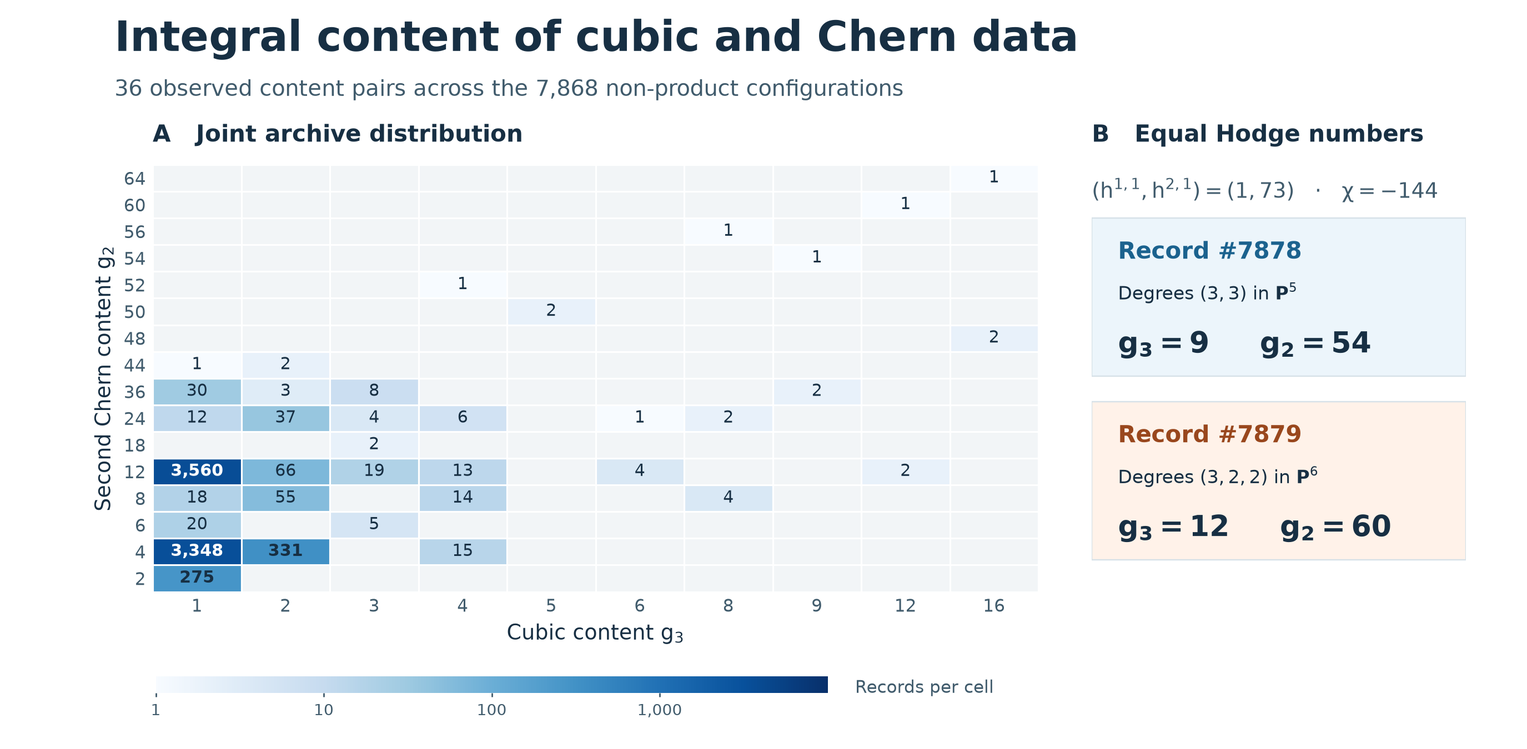
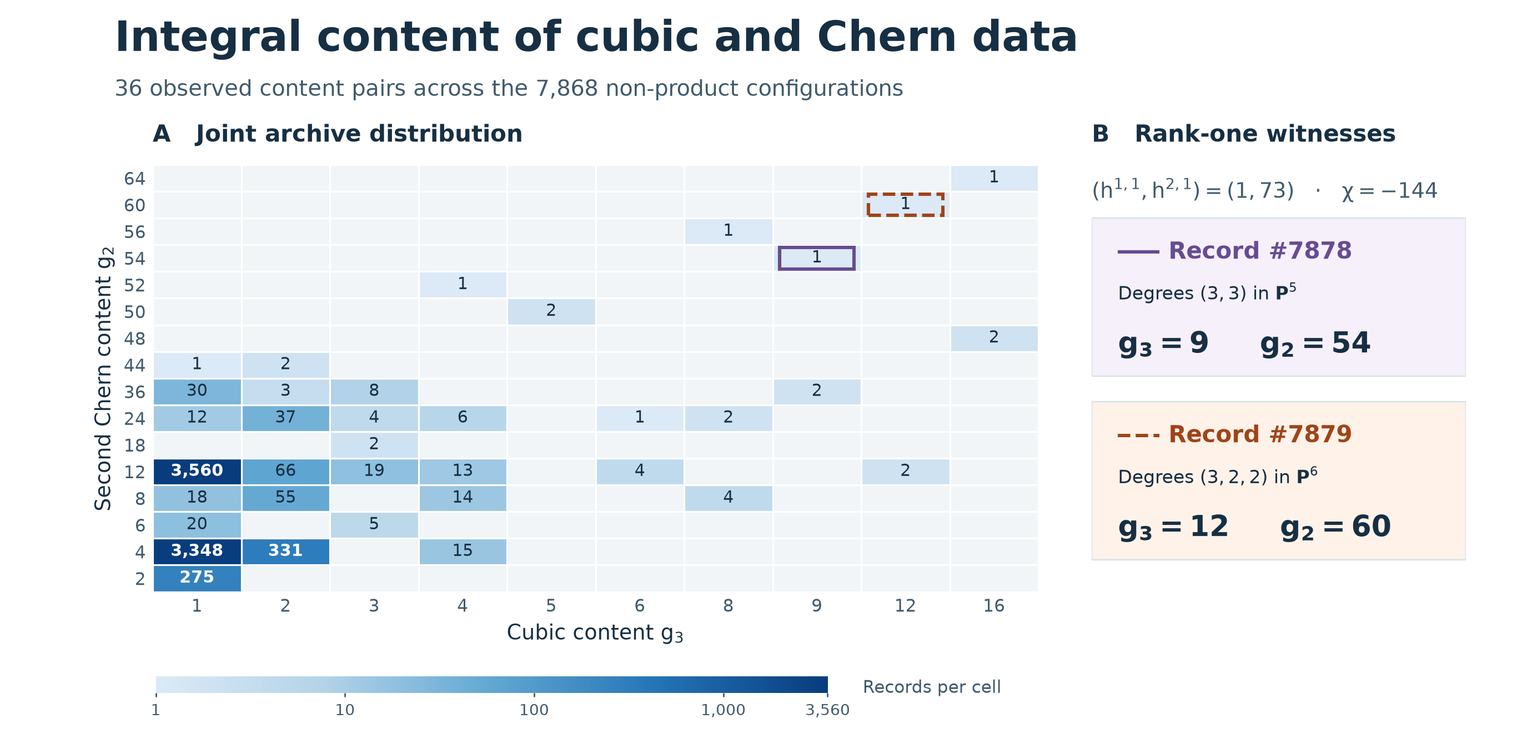
Clarify the index-divisibility visuals and render red hyperlinks

diff --git a/src/py_cipro/web/styles.css b/src/py_cipro/web/styles.css
@@ -4,6 +4,12 @@
   --ink: #172b29;
   --dim: #536561;
   --accent: #006658;
+  --link-on-light: #a22524;
+  --link-hover-on-light: #781513;
+  --link-on-dark: #ffa69d;
+  --link-hover-on-dark: #ffd2cc;
+  --link: var(--link-on-light);
+  --link-hover: var(--link-hover-on-light);
   --line: #d8e1dc;
   --mint: #b8f0d8;
   --night: #102823;
@@ -23,7 +29,8 @@ body { margin: 0; background: var(--paper); color: var(--ink); }
 button, input, select, textarea { font: inherit; }
 button { cursor: pointer; }
 button:disabled { cursor: default; opacity: .48; }
-a { color: var(--accent); text-underline-offset: 3px; }
+a[href] { color: var(--link); text-underline-offset: 3px; }
+a[href]:is(:hover, :focus-visible) { color: var(--link-hover); text-decoration-line: underline; }
 :focus-visible { outline: 3px solid #117a6c; outline-offset: 3px; }
 [hidden] { display: none !important; }
 .skip-link { position: fixed; z-index: 8; top: .65rem; left: .65rem; padding: .55rem .75rem; background: var(--white); clip-path: inset(50%); }
@@ -31,13 +38,12 @@ a { color: var(--accent); text-underline-offset: 3px; }
 .site-header { background: #f9fbf6; border-bottom: 1px solid var(--line); }
 .header-inner, main { width: min(100% - 5.5rem, 1440px); margin-inline: auto; }
 .header-inner { display: flex; align-items: center; justify-content: space-between; gap: 1rem; min-height: 68px; }
-.brand { color: var(--ink); text-decoration: none; display: inline-flex; align-items: center; gap: .75rem; font-size: 1.12rem; font-weight: 730; }
+.brand { text-decoration: none; display: inline-flex; align-items: center; gap: .75rem; font-size: 1.12rem; font-weight: 730; }
 .brand-icon { display: grid; place-items: center; width: 35px; height: 35px; border-radius: 10px; color: #e6fcf1; background: var(--night); font: italic 1.35rem Georgia, serif; }
-.brand-sub { color: var(--dim); font-weight: 520; }
+.brand-sub { font-weight: 520; }
 nav { display: flex; gap: clamp(.9rem, 3vw, 2.25rem); font-size: .87rem; }
-nav a { text-decoration: none; color: #435853; font-weight: 620; }
-nav a:hover { text-decoration: underline; }
-.kernel-indicator { text-decoration: none; white-space: nowrap; font-size: .79rem; color: var(--dim); font-weight: 640; }
+nav a { text-decoration: none; font-weight: 620; }
+.kernel-indicator { text-decoration: none; white-space: nowrap; font-size: .79rem; font-weight: 640; }
 .kernel-indicator > span:first-child { display: inline-block; width: 8px; height: 8px; border: 1px solid #798a80; background: #b4c2b8; border-radius: 50%; margin-right: .45rem; }
 .kernel-indicator > span:first-child.ready { background: #6fbd8d; border-color: #46795b; }
 main { padding-block: 1.5rem 3rem; }
@@ -52,6 +58,9 @@ h1 { margin: 0 0 1.1rem; font-family: "Instrument Serif", "Iowan Old Style", "Pa
 .button:hover:not(:disabled) { background: #005448; }
 .hero-button { background: var(--mint); color: var(--night); }
 .hero-button:hover:not(:disabled) { background: #d5f8e8; }
+:is(.hero, .research-cover) { --link: var(--link-on-dark); --link-hover: var(--link-hover-on-dark); }
+a.hero-button[href] { color: var(--link-on-light); }
+a.hero-button[href]:is(:hover, :focus-visible) { color: var(--link-hover-on-light); }
 .secondary-hero { color: #ecf8f1; background: transparent; border-color: #72998a; }
 .secondary-hero:hover:not(:disabled) { background: #294a3d; }
 .hero :focus-visible { outline-color: #b8f0d8; }
@@ -250,6 +259,8 @@ fieldset legend { font-size: .83rem; font-weight: 690; margin: 0 0 .28rem; paddi
     --ink: #e9f3ee;
     --dim: #aec1b9;
     --accent: #a3e6d0;
+    --link: var(--link-on-dark);
+    --link-hover: var(--link-hover-on-dark);
     --line: #344b42;
     --white: #1a2a24;
     --plot-grid: #344d43;
@@ -263,7 +274,6 @@ fieldset legend { font-size: .83rem; font-weight: 690; margin: 0 0 .28rem; paddi
   :focus-visible { outline-color: #a3e6d0; }
   .site-header { background: #14241e; }
   .brand-icon { color: #16342b; background: #a3e6d0; }
-  nav a { color: var(--dim); }
   .hero { border: 1px solid #416555; }
   .filters input, .filters select, .text-button, .square-button { background: #20362e; border-color: #4f6e61; color: var(--ink); }
   .text-button:hover:not(:disabled), .square-button:hover:not(:disabled) { background: #304b3f; }

diff --git a/src/py_cipro/web/index-divisibility.js b/src/py_cipro/web/index-divisibility.js
@@ -54,6 +54,53 @@ function recordCard(record, openRecords, ui) {
   return card;
 }
 
+function distributionBar(node, share) {
+  const track = node("span", "", "index-distribution-track");
+  const fill = node("span");
+  track.setAttribute("aria-hidden", "true");
+  fill.style.width = `${100 * share}%`;
+  track.append(fill);
+  return track;
+}
+
+function indexDistribution(node, count, summary, distribution) {
+  const figure = node("figure", "", "index-distribution");
+  const caption = node("figcaption");
+  caption.append(
+    node("h5", "Index gcd distribution"),
+    node("p", `Across all ${count.format(summary.records)} non-product records`),
+  );
+  const chart = node("div", "", "index-distribution-grid");
+  const overall = node("div");
+  const percentage = new Intl.NumberFormat(undefined, { style: "percent", maximumFractionDigits: 2 });
+  const unit = summary.records - summary.nonunit_records;
+  const share = summary.nonunit_records / summary.records;
+  const totals = node("dl", "", "index-distribution-totals");
+  totals.append(
+    measure(node, "GCD equals 1", `${count.format(unit)} (${percentage.format(1 - share)})`),
+    measure(node, "GCD above 1", `${count.format(summary.nonunit_records)} (${percentage.format(share)})`),
+  );
+  overall.append(totals, distributionBar(node, share));
+
+  const detail = node("div");
+  detail.append(node("h6", `Breakdown of the ${count.format(summary.nonunit_records)} records with gcd above 1`));
+  const rows = node("ul", "", "index-distribution-values");
+  for (const { value, count: frequency } of distribution) {
+    if (value === 1) continue;
+    const row = node("li");
+    row.append(
+      node("span", `GCD ${value}`),
+      distributionBar(node, frequency / summary.nonunit_records),
+      node("strong", count.format(frequency)),
+    );
+    rows.append(row);
+  }
+  detail.append(rows);
+  chart.append(overall, detail);
+  figure.append(caption, chart);
+  return figure;
+}
+
 export function mountIndexDivisibility(parent, openRecords, ui) {
   const { node, request, count } = ui;
   const section = node("section", "", "index-divisibility");
@@ -81,7 +128,7 @@ export function mountIndexDivisibility(parent, openRecords, ui) {
     status.classList.remove("error");
     status.textContent = "Loading index-divisibility audit…";
     try {
-      const { witness, summary } = await request(auditPath);
+      const { witness, summary, distribution } = await request(auditPath);
       const [first] = witness;
       const shared = node("dl", "", "index-divisibility-shared");
       shared.append(
@@ -92,9 +139,9 @@ export function mountIndexDivisibility(parent, openRecords, ui) {
       const comparison = node("div", "", "index-divisibility-comparison");
       comparison.append(...witness.map(record => recordCard(record, openRecords, ui)));
       const interpretation = node("p",
-        `Adding the index gcd raises the number of distinct signatures from ${count.format(summary.signatures_before)} to ${count.format(summary.signatures_after)} across ${count.format(summary.records)} non-product records. ${count.format(summary.nonunit_records)} have an index gcd greater than one.`,
+        `Adding the index gcd raises the number of distinct signatures from ${count.format(summary.signatures_before)} to ${count.format(summary.signatures_after)}.`,
         "index-divisibility-interpretation");
-      section.append(shared, comparison, interpretation);
+      section.append(shared, comparison, indexDistribution(node, count, summary, distribution), interpretation);
       status.remove();
       retry.remove();
     } catch (error) {

diff --git a/src/py_cipro/web/research.css b/src/py_cipro/web/research.css
@@ -36,7 +36,6 @@
 .research-cover-visual > a { display: block; background: #fff; border: 1px solid #91b4a5; border-radius: 9px; overflow: hidden; }
 .research-cover-visual img { width: 100%; display: block; height: auto; }
 .research-cover-visual figcaption { display: flex; justify-content: center; flex-wrap: wrap; gap: .35rem 1rem; margin-top: .55rem; text-align: center; font-size: .75rem; }
-.research-cover-visual figcaption a { color: #d4f3e4; }
 .research-cover-actions, .research-figure-links, .research-jump-links, .research-actions {
   display: flex;
   align-items: center;
@@ -357,6 +356,20 @@
 .index-divisibility-hyperplanes dt { color: var(--dim); font-size: .7rem; }
 .index-divisibility-hyperplanes dd { margin: .12rem 0 0; font-size: 1.05rem; font-weight: 670; font-variant-numeric: tabular-nums; }
 .index-divisibility-hyperplanes .index-divisibility-odd { border-color: var(--research-contribution); background: color-mix(in srgb, var(--research-contribution) 16%, var(--white)); }
+.index-distribution { margin: .85rem 0 0; padding: .9rem; border: 1px solid var(--line); border-radius: 8px; background: var(--research-graph-bg); }
+.index-distribution h5 { margin: 0; font-size: .87rem; }
+.index-distribution figcaption p { margin: .25rem 0 .75rem; color: var(--dim); font-size: .75rem; }
+.index-distribution-grid { display: grid; grid-template-columns: repeat(2, minmax(0, 1fr)); align-items: start; gap: .85rem 1.2rem; }
+.index-distribution-totals { display: flex; justify-content: space-between; flex-wrap: wrap; gap: .55rem .9rem; margin: 0 0 .45rem; }
+.index-distribution-totals dt { font-size: .73rem; color: var(--dim); }
+.index-distribution-totals dd { margin: .2rem 0 0; font-size: .91rem; font-weight: 680; font-variant-numeric: tabular-nums; }
+.index-distribution-track { display: flex; height: 7px; border-radius: 4px; overflow: hidden; background: var(--plot-bar-empty); }
+.index-distribution-track > span { background: var(--research-contribution); }
+.index-distribution-totals + .index-distribution-track { justify-content: flex-end; height: 11px; }
+.index-distribution h6 { margin: 0 0 .35rem; color: var(--dim); font-size: .73rem; }
+.index-distribution-values { display: grid; gap: .27rem; margin: 0; padding: 0; list-style: none; }
+.index-distribution-values li { display: grid; grid-template-columns: 3.7rem minmax(0, 1fr) 2.1rem; gap: .5rem; align-items: center; font-size: .75rem; font-variant-numeric: tabular-nums; }
+.index-distribution-values strong { text-align: right; }
 .index-divisibility-interpretation { margin: .8rem 0 0; color: var(--dim); font-size: .79rem; line-height: 1.5; }
 
 @media (prefers-color-scheme: dark) {
@@ -392,6 +405,7 @@
   .integral-witness-geometry { font-size: 1.35rem; }
   .integral-refinement, .index-divisibility { padding: .85rem; }
   .index-divisibility-comparison { grid-template-columns: minmax(0, 1fr); }
+  .index-distribution-grid { grid-template-columns: minmax(0, 1fr); }
   .index-divisibility-shared { grid-template-columns: repeat(2, minmax(0, 1fr)); }
   .index-divisibility-shared > div:last-child { grid-column: 1 / -1; }
   .refinement-metrics { grid-template-columns: repeat(2, minmax(0, 1fr)); gap: .5rem; }

diff --git a/scripts/integral_invariants.py b/scripts/integral_invariants.py
@@ -125,7 +125,7 @@ def plot(payload, outputs):
 
     matplotlib.use("Agg")
     import matplotlib.pyplot as plt
-    from matplotlib.colors import LogNorm
+    from matplotlib.colors import LinearSegmentedColormap, LogNorm
     from matplotlib.patches import Rectangle
     from matplotlib.ticker import StrMethodFormatter
 
@@ -134,8 +134,14 @@ def plot(payload, outputs):
     cubic_axis = sorted({g3 for g3, _ in counts})
     chern_axis = sorted({g2 for _, g2 in counts})
     ink, subdued, border = "#172f43", "#405b6c", "#d6e1e8"
-    cmap = plt.get_cmap("Blues")
-    norm = LogNorm(1, 10 ** (len(str(max(counts.values())))))
+    highlights = tuple(zip(
+        payload["witness"], ("#674b94", "#a04418"), ("#f5f0fa", "#fff2e9"), ("solid", "dashed"), strict=True,
+    ))
+    blues = plt.get_cmap("Blues")
+    cmap = LinearSegmentedColormap.from_list("archive-counts", blues([.14, .31, .53, .74, .95]))
+    maximum = max(counts.values())
+    norm = LogNorm(1, maximum)
+    scale_ticks = sorted({tick for tick in (1, 10, 100, 1000, maximum) if tick <= maximum})
     with plt.rc_context({
         "font.family": "DejaVu Sans", "font.size": 11, "text.color": ink,
         "axes.labelcolor": ink, "xtick.color": subdued, "ytick.color": subdued,
@@ -158,6 +164,11 @@ def plot(payload, outputs):
                     matrix.text(x + .5, y + .5, f"{count:,}", ha="center", va="center",
                                 fontsize=8.5, weight="bold" if count >= 100 else "normal",
                                 color="white" if norm(count) >= .64 else ink)
+        for row, accent, _, linestyle in highlights:
+            x = cubic_axis.index(row["cubic_content"])
+            y = chern_axis.index(row["chern_content"])
+            matrix.add_patch(Rectangle((x + .08, y + .10), .84, .80, fill=False,
+                                       edgecolor=accent, linewidth=1.75, linestyle=linestyle))
         matrix.set(xlim=(0, len(cubic_axis)), ylim=(0, len(chern_axis)),
                    xticks=[i + .5 for i in range(len(cubic_axis))], xticklabels=cubic_axis,
                    yticks=[i + .5 for i in range(len(chern_axis))], yticklabels=chern_axis,
@@ -167,30 +178,31 @@ def plot(payload, outputs):
             spine.set_visible(False)
         legend = fig.add_axes((.102, .075, .44, .022))
         scale = fig.colorbar(plt.cm.ScalarMappable(norm=norm, cmap=cmap), cax=legend,
-                             orientation="horizontal", ticks=(1, 10, 100, 1000), format=StrMethodFormatter("{x:,.0f}"))
+                             orientation="horizontal", ticks=scale_ticks, format=StrMethodFormatter("{x:,.0f}"))
         scale.solids.set_rasterized(False)
         scale.minorticks_off()
         scale.outline.set_visible(False)
         scale.ax.tick_params(labelsize=8, length=2)
-        fig.text(.56, .075, "Records per cell", fontsize=9, color=subdued)
+        fig.text(.565, .075, "Records per cell", fontsize=9, color=subdued)
 
         side = fig.add_axes((.715, .21, .245, .57))
         side.set_axis_off()
-        side.set_title("B   Equal Hodge numbers", loc="left", fontsize=12, weight="bold", pad=12)
+        side.set_title("B   Rank-one witnesses", loc="left", fontsize=12, weight="bold", pad=12)
         first = payload["witness"][0]
         h11, h21 = first["hodge"]
         side.text(0, .969, rf"$(h^{{1,1}},h^{{2,1}})=({h11},{h21})$   ·   $\chi={first['euler']}$",
                   fontsize=11, va="top", color=subdued)
-        for row, bottom, accent, background in zip(
-            payload["witness"], (.505, .075), ("#1b628e", "#99471d"), ("#ecf5fb", "#fff2e9"), strict=True,
-        ):
+        for (row, accent, background, linestyle), bottom in zip(highlights, (.505, .075), strict=True):
             side.add_patch(Rectangle((0, bottom), 1, .37, facecolor=background, edgecolor=border, linewidth=.7))
-            side.text(.07, bottom + .275, f"Record #{row['id']}", fontsize=12, weight="bold", color=accent)
+            side.plot((.07, .18), (bottom + .291, bottom + .291), color=accent,
+                      linewidth=1.75, linestyle=linestyle, solid_capstyle="butt")
+            side.text(.205, bottom + .275, f"Record #{row['id']}", fontsize=12, weight="bold", color=accent)
             degrees = ",".join(map(str, row["degrees"]))
             side.text(.07, bottom + .179, rf"Degrees $({degrees})$ in $\mathbf{{P}}^{{{row['ambient_dimension']}}}$",
                       fontsize=9.5)
             side.text(.07, bottom + .055, rf"$g_3={row['cubic_content']}$" + "     " + rf"$g_2={row['chern_content']}$",
                       fontsize=15, weight="bold")
+        side.set(xlim=(0, 1), ylim=(0, 1))
         for output in outputs:
             output.parent.mkdir(parents=True, exist_ok=True)
             metadata = {"CreationDate": None, "ModDate": None} if output.suffix == ".pdf" else None

diff --git a/scripts/render_graphical_abstract.py b/scripts/render_graphical_abstract.py
@@ -100,7 +100,7 @@ def cover_evidence(studies):
         or not any(value % 2 for value in second["hyperplane_indices"])
     ):
         raise ValueError("The cover requires a matched witness with an even and an odd-capable index.")
-    return first, second, totals, len(records), nonunit
+    return first, second, totals, len(records), counts
 
 
 def box(fig, x, y, width, height, fill, edge="none", radius=.012):
@@ -164,24 +164,32 @@ def witness_panel(fig, x, witness, accent, pale, outcome):
     text(fig, x, .376, outcome, 9.1, color=accent, weight="bold")
 
 
-def cohort_panel(fig, totals, records, nonunit):
-    text(fig, .046, .277, f"Distinct ambient signatures across {records:,} non-product records", 9.4, weight="bold")
+def cohort_panel(fig, totals, records, counts):
+    text(fig, .046, .277, f"Signatures across {records:,} non-product records", 9.4, weight="bold")
     labels = ("Cubic and Chern", "+ repeated and diagonal", "+ the index gcd")
     for x, total, label in zip((.114, .308, .509), totals, labels, strict=True):
         text(fig, x, .183, str(total), 23, weight="bold", ha="center", color=TEAL)
         text(fig, x, .115, label, 8.4, color=MUTED, ha="center")
     for x in (.205, .406):
         text(fig, x, .183, "→", 17, color=MUTED, ha="center")
-    rule(fig, .642, .642, .094, .229)
-    text(fig, .669, .183, f"{nonunit:,} records", 16, weight="bold", color=RUST)
-    text(fig, .669, .115, "with index gcd above one", 8.4, color=MUTED)
+    rule(fig, .632, .632, .094, .285)
+    nonunit = sorted((divisor, count) for divisor, count in counts.items() if divisor > 1)
+    largest_count = max((count for _, count in nonunit), default=1)
+    text(fig, .666, .277, fr"{records - counts[1]:,} records with $d_\chi>1$", 9.4, weight="bold", color=RUST)
+    text(fig, .667, .242, r"$d_\chi$", 7.5, color=MUTED, ha="center")
+    text(fig, .955, .242, "Records", 7.5, color=MUTED, ha="right")
+    for i, (divisor, count) in enumerate(nonunit):
+        y = .213 - .027 * i
+        text(fig, .667, y, str(divisor), 8.0, ha="center")
+        rule(fig, .704, .704 + .203 * count / largest_count, y, y, color=RUST)
+        text(fig, .955, y, f"{count:,}", 8.0, color=RUST, ha="right", weight="bold")
     rule(fig, .045, .955, .076, .076)
     text(fig, .045, .041, "CIPro v1.0 CICY3 archive · Exact Python audit of the ambient divisor lattices",
          7.4, color=MUTED)
 
 
 def render(studies, pdf, png):
-    first, second, totals, records, nonunit = cover_evidence(studies)
+    first, second, totals, records, counts = cover_evidence(studies)
     odd_axis = next(i for i, value in enumerate(second["hyperplane_indices"], start=1) if value % 2)
     odd_value = second["hyperplane_indices"][odd_axis - 1]
     with matplotlib.rc_context({"font.family": "DejaVu Sans", "pdf.fonttype": 42}):
@@ -193,7 +201,7 @@ def render(studies, pdf, png):
         witness_panel(fig, .045, first, TEAL, TEAL_PALE, "All ambient line-bundle indices are even")
         witness_panel(fig, .513, second, RUST, RUST_PALE,
                       fr"Odd index at $H_{odd_axis}$ · $\chi(X,\mathcal{{O}}_X(H_{odd_axis}))={odd_value}$")
-        cohort_panel(fig, totals, records, nonunit)
+        cohort_panel(fig, totals, records, counts)
         pdf.parent.mkdir(parents=True, exist_ok=True)
         png.parent.mkdir(parents=True, exist_ok=True)
         fig.savefig(pdf, format="pdf", metadata={

diff --git a/scripts/z_generate_manuscript_variables.py b/scripts/z_generate_manuscript_variables.py
@@ -38,7 +38,7 @@ def figures_from_source(root, variables):
         "fig:chern_audit": "Hexagonal count plot of polarized Chern pairings and a scatter plot highlighting index extremes at one Hodge pair.",
         "fig:atlas_comparison": "Two Euler distribution steps, two ambient-factor profiles, and a signed decomposition of the change in archived favorability.",
         "fig:bicubic_exact": "Exact bicubic cohomology in a specified smooth member and its excess over the generic formula.",
-        "fig:integral_invariants": "Divisibility of cubic intersections and second Chern pairings on ambient divisor lattices, with breakdowns by Hodge pair.",
+        "fig:integral_invariants": "Logarithmic heatmap of cubic and second Chern content across the archive. A solid outline marks the cell (9, 54) for record 7878 and a dashed outline marks (12, 60) for record 7879. Adjacent cards show their common Hodge pair and distinct rank-one invariants.",
     }
     generated_by = {
         "fig:chern_audit": "scripts/chern_audit.py",

diff --git a/manuscript/04_integral_invariants.md b/manuscript/04_integral_invariants.md
@@ -65,7 +65,7 @@ The calculation multiplies $[X]=\prod_a D_a$ in the integral ambient ring in [@p
 
 Of {{INTEGRAL_HODGE_GROUPS}} distinct Hodge groups, {{INTEGRAL_HODGE_SPLIT}} contain more than one joint content pair. Of {{INTEGRAL_EULER_GROUPS}} distinct Euler groups, {{INTEGRAL_EULER_SPLIT}} split in this way. The largest Hodge group, ${{INTEGRAL_MODAL_HODGE}}$, contributes {{INTEGRAL_MODAL_RECORDS}} records in {{INTEGRAL_MODAL_PAIRS}} joint cells. These counts concern archive presentations and their supplied integral lattices. A comparison of the underlying integral cohomology rings uses the full lattice, as in the example below.
 
-![Cubic and second Chern content in the released CIPro archive. (A) Occupied cells show exact counts for the {{INTEGRAL_PAIR_COUNT}} observed pairs among {{INTEGRAL_RECORD_COUNT}} non-product configurations, with a logarithmic color scale. The axes show the occupied integer levels for each invariant. Empty cells have zero records. (B) Two rank-one ample complete intersections share their Hodge pair and Euler characteristic and have different content on the full integral second cohomology. The degrees and record IDs trace both computations to the release.](../output/figures/integral-invariants.png){#fig:integral_invariants width=100%}
+![Cubic and second Chern content in the released CIPro archive. (A) Occupied cells show exact counts for the {{INTEGRAL_PAIR_COUNT}} observed pairs among {{INTEGRAL_RECORD_COUNT}} non-product configurations. Color represents the count on a logarithmic scale, and blank cells contain zero records. The solid and dashed outlines identify the two records detailed in panel B. (B) The rank-one complete intersections share their Hodge pair and Euler characteristic. Their cubic and Chern contents on full integral second cohomology differ. The degrees and record IDs identify the source configurations.](../output/figures/integral-invariants.png){#fig:integral_invariants width=100%}
 
 In the dashboard's **Manuscript** view, open **Integral lattice divisibility** and select a census scope. A Hodge pair or Euler characteristic restricts the population, and an occupied cell selects the exact $(g_3,g_2)$ cohort. **Open source records** opens that cohort in the archive. Select a record by ID to inspect its dimensions, degree matrix, and ordered second Chern pairings. **Rerun in Python** rebuilds the content values and congruence checks for that record from its configuration. The shared figure link retains the scope, cell, and record for replay.
 

diff --git a/manuscript/06_verification.md b/manuscript/06_verification.md
@@ -33,7 +33,7 @@ The package is **{{PACKAGE_NAME}} {{PACKAGE_VERSION}}**, with Python requirement
 
 For a calculation needed in subsequent work, retain the package and release revisions, backend, runtime, original inputs and options, actual result, and messages. When using an archive row, include its ID, dataset digest, and subset filters. Random equations require their concrete coefficients or a seed together with the generator and version. Preserve WXF and Wolfram version for kernel-native symbolic results. These records allow the same case to be replayed even when later versions extend native dispatch or change the representations of intermediate values.
 
-The [versioned GitHub release]({{GITHUB_RELEASE_URL}}) contains the wheel, manuscript, graphical abstract, vector figures, and exact analysis receipts. In Figure 6, **Compare index divisibility** opens the two configurations on the graphical abstract. For each record the dashboard can open the catalogue matrix or recompute the full ambient fixed divisor and the individual hyperplane indices in Python.
+The [versioned GitHub release]({{GITHUB_RELEASE_URL}}) provides the software and the corresponding archived research files. The source revision above identifies this render. **Compare index divisibility** on the dashboard cover opens the two configurations shown in the graphical abstract. Figure 6 displays the counts for all observed index gcds and can open each witness configuration or recompute its full ambient fixed divisor and its individual hyperplane indices in Python.
 
 ## Requirements for extending the comparisons
 

diff --git a/manuscript/preamble.md b/manuscript/preamble.md
@@ -8,14 +8,15 @@
 \usepackage[nottoc,notlof,notlot]{tocbibind}
 \lstset{basicstyle=\ttfamily\small,breaklines=true,columns=fullflexible}
 
-\definecolor{ciprolink}{HTML}{156568}
+\definecolor{ciprolink}{HTML}{B4232A}
+\definecolor{ciprobrand}{HTML}{156568}
 \definecolor{ciproquiet}{HTML}{3C596A}
-\hypersetup{linkcolor=ciprolink,citecolor=ciprolink,urlcolor=ciprolink}
+\hypersetup{colorlinks=true,allcolors=ciprolink}
 \setlength{\headheight}{14pt}
 \setlength{\headsep}{13pt}
 \pagestyle{fancy}
 \fancyhf{}
-\fancyhead[L]{\sffamily\footnotesize\bfseries\color{ciprolink} py-CIPro}
+\fancyhead[L]{\sffamily\footnotesize\bfseries\color{ciprobrand} py-CIPro}
 \fancyhead[R]{\sffamily\footnotesize\color{ciproquiet} Complete-intersection geometry}
 \fancyfoot[R]{\sffamily\footnotesize\color{ciproquiet}\thepage}
 \renewcommand{\headrulewidth}{0.25pt}

diff --git a/docs/manuscript.md b/docs/manuscript.md
@@ -121,7 +121,10 @@ uv run --no-sync python scripts/pipeline/stage_04_validate.py --project "working
 
 The combined PDF is in `output/pdf/` inside the py-CIPro checkout. The
 template names it from the checkout directory. Its validation and provenance
-reports are in `output/reports/`. The authored variables resolve into
+reports are in `output/reports/`. The project preamble sets the same red
+for internal references, citations, and external links. Use
+`pdfinfo -url` and `pdfinfo -dests` to inspect the resolved targets.
+The authored variables resolve into
 `output/data/manuscript_variables.json`, and
 `output/data/software_and_analysis.json` binds the machine-readable software
 record to the input, figure, and cover SHA-256 digests. Figure captions and

diff --git a/docs/dashboard.md b/docs/dashboard.md
@@ -82,6 +82,9 @@ The two cards show the archived configuration matrices, the shared Hodge
 pair `(3, 47)`, Euler characteristic `-88`, and the common four-part
 signature `(2, 2, 2, 4)`. Their hyperplane line-bundle indices are
 `(2, 4, 4)` for record **7626** and `(2, 4, 5)` for record **7635**.
+The distribution shows the unit and non-unit counts in the full cohort.
+Its detail bars use the 138 non-unit records as their denominator, so
+the rare gcd values can be compared at a readable scale.
 
 Each card has two actions.
 
